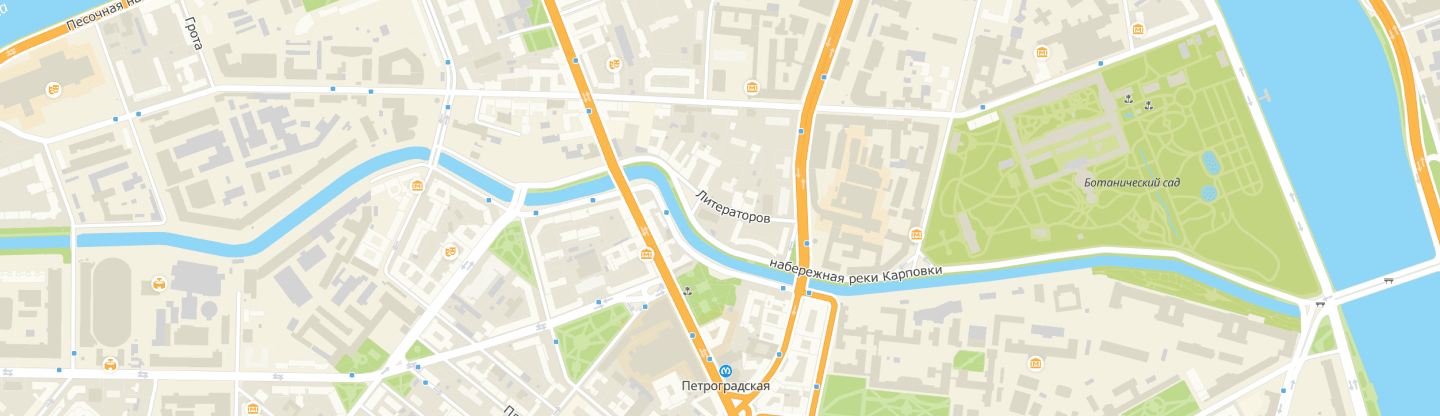
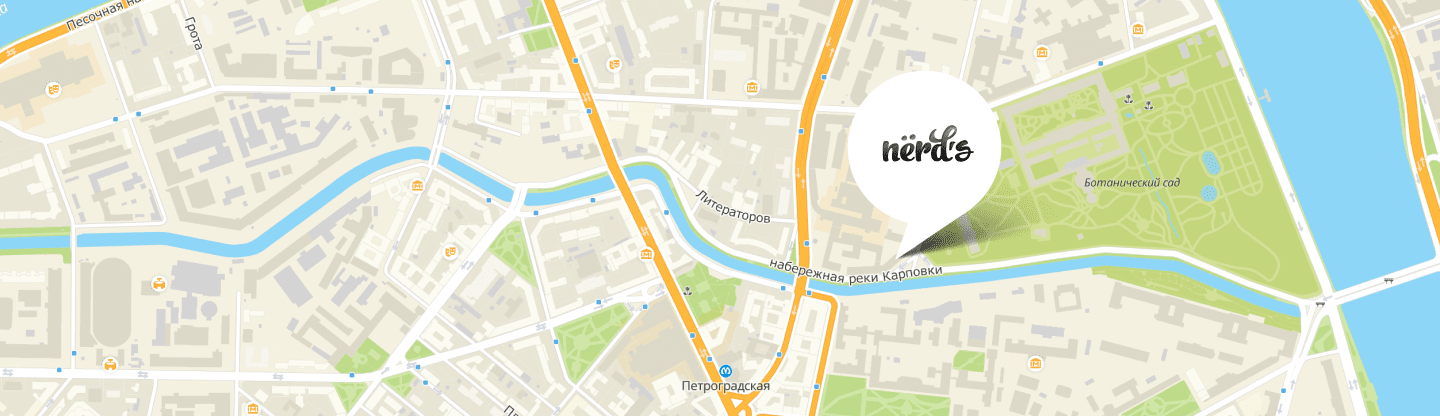
Правки по замечаниям-1
1. карта
2. альты в каталоге
3. описание ползунков
4. убрала подчеркивание корзины в меню
5. выправила шрифты, размеры, высоту строк
6. поправила главную навигацию на переполнение

Changed region(s): [[0.5625, 0.1562, 0.7188, 0.625]]

diff --git a/index.html b/index.html
@@ -18,7 +18,7 @@
 
     <nav class="main-navigation center">
       <a class="main-header-logo">
-        <img src="img/svg/nerds-logo.svg" width="160" height="66" alt="логотип Нёрдс черного цвета">
+        <img src="img/svg/nerds-logo.svg" width="160" height="66" alt="Логотип Нёрдс черного цвета.">
       </a>
       <ul class="site-navigation">
         <li><a href="index.html">Студия</a></li>
@@ -63,19 +63,19 @@
       <h2 class="visually-hidden">Услуги</h2>
       <ul class="services-list">
         <li class="services-item">
-          <img src="img/png/illustration-1.png" width="300" height="146" alt="На красном фоне изображен ноутбук с открытым в браузере сайтом на экране">
+          <img src="img/png/illustration-1.png" width="300" height="146" alt="На красном фоне изображен ноутбук с открытым в браузере сайтом на экране.">
           <h3>Веб-сайты</h3>
           <p>Мир никогда не будет прежним<br>после того как увидит ваш сайт!</p>
           <a class="button" href="blank.html">Заказать</a>
         </li>
         <li class="services-item">
-          <img src="img/png/illustration-2.png" width="300" height="146" alt="На зеленом фоне изображены два смартфона, на которых открыты какие-то приложения">
+          <img src="img/png/illustration-2.png" width="300" height="146" alt="На зеленом фоне изображены два смартфона, на которых открыты какие-то приложения.">
           <h3>Приложения</h3>
           <p>Покорите топ-10 приложений<br>в AppStore и Google Play</p>
           <a class="button button-green" href="blank.html">Заказать</a>
         </li>
         <li class="services-item">
-          <img src="img/png/illustration-3.png" width="300" height="146" alt="На желтом фоне изображен монитор на трех ножках, на экране которого видны различные диаграммы">
+          <img src="img/png/illustration-3.png" width="300" height="146" alt="На желтом фоне изображен монитор на трех ножках, на экране которого видны различные диаграммы.">
           <h3>Презентации</h3>
           <p>Вы даже не подозреваете,<br>насколько вы изумительны!</p>
           <a class="button button-yellow" href="blank.html">Заказать</a>
@@ -98,7 +98,7 @@
       </div>
       <div class="about-us-statistics">
         <h3 class="visually-hidden">Наша статистика</h3>
-        <img src="img/jpg/nerds-illustration.jpg" width="360" height="208" alt="Черный логотип Нёрдс на фоне красных, синих, зеленых и желтых фигур — кругов, прямых и изогнутых линий">
+        <img src="img/jpg/nerds-illustration.jpg" width="360" height="208" alt="Черный логотип Нёрдс на фоне красных, синих, зеленых и желтых фигур — кругов, прямых и изогнутых линий.">
         <table class="about-us-table">
           <caption>с 2004 года Любим точность во всем:</caption>
           <tr>
@@ -120,22 +120,22 @@
       <ul class="partners-list">
         <li class="partners-list-item logo-htmlacademy">
           <a href="https://htmlacademy.ru/intensive/htmlcss" target="_blank">
-            <img src="img/svg/logo-htmlacademy.svg" width="199" height="58" alt="логотип Html Academy">
+            <img src="img/svg/logo-htmlacademy.svg" width="199" height="58" alt="Логотип Html Academy.">
           </a>
         </li>
         <li class="partners-list-item logo-borodinski">
           <a href="blank.html">
-            <img src="img/png/logo-borodinski.png" width="209" height="90" alt="логотип барбершопа Бородинский">
+            <img src="img/png/logo-borodinski.png" width="209" height="90" alt="Логотип барбершопа Borodinski.">
           </a>
         </li>
         <li class="partners-list-item logo-pink">
           <a href="blank.html">
-            <img src="img/png/logo-pink.png" width="185" height="52" alt="Логотип Pink App, продуктового лендинга приложений для iOS и Android">
+            <img src="img/png/logo-pink.png" width="185" height="52" alt="Логотип Pink App, продуктового лендинга приложений для iOS и Android.">
           </a>
         </li>
         <li class="partners-list-item logo-mishka">
           <a href="blank.html">
-            <img src="img/png/logo-mishka.png" width="173" height="84" alt="Логотип интернет-магазина игрушек Mishka">
+            <img src="img/png/logo-mishka.png" width="173" height="84" alt="Логотип интернет-магазина игрушек Mishka.">
           </a>
         </li>
       </ul>
@@ -147,7 +147,6 @@
     <section class="contacts">
       <h2 class="visually-hidden">Контакты</h2>
       <iframe src="https://www.google.com/maps/embed?pb=!1m18!1m12!1m3!1d1019.3873247704647!2d30.316337186695847!3d59.96835380951703!2m3!1f0!2f0!3f0!3m2!1i1024!2i768!4f13.1!3m3!1m2!1s0x4696315bc48a26c9%3A0x8a49e1486716f5b1!2z0L3QsNCxLiBQ0LXQutC4INCa0LDRgNC_0L7QstC60LgsIDXQnywg0KHQsNC90LrRgi3Qn9C10YLQtdGA0LHRg9GA0LMsIDE5NzAyMg!5e0!3m2!1sru!2sru!4v1626047860534!5m2!1sru!2sru" height="416" style="border:0;" allowfullscreen="" loading="lazy"></iframe>
-      <img src="img/png/map.png" alt="Карта с отмеченным местонахождением дизайн-студии Нёрдс" width="1440" height="416">
       <div class="center">
         <div class="contacts-info">
           <p class="contacts-title">NЁRDS DESIGN STUDIO</p>

diff --git a/catalog.html b/catalog.html
@@ -27,7 +27,7 @@
         <li><a href="blank.html">Контакты</a></li>
       </ul>
       <ul class="user-navigation">
-        <li class="navigation-current"><a class="cart-icon" href="blank.html">Корзина</a></li>
+        <li><a class="cart-icon" href="blank.html">Корзина</a></li>
       </ul>
     </nav>
 
@@ -49,8 +49,8 @@
               <div class="scale">
                 <div class="bar" style="width: 62%; margin-left: 7%"></div>
               </div>
-              <div class="toggle toggle-min" tabindex="0" style="left: 7%"></div>
-              <div class="toggle toggle-max" tabindex="0" style="left: 62%"></div>
+              <div class="toggle toggle-min" tabindex="0" style="left: 7%"><span class="visually-hidden">Левый ползунок</span></div>
+              <div class="toggle toggle-max" tabindex="0" style="left: 62%"><span class="visually-hidden">Правый ползунок</span></div>
             </div>
             <div class="price-controls">
               <label class="min-price">От
@@ -135,7 +135,7 @@
       <ul class="templates-list">
         <li>
           <a class="templates-item" href="blank.html">
-            <img src="img/catalog/img-sedona.jpg" alt="" width="358" height="578">
+            <img src="img/catalog/img-sedona.jpg" alt="Скриншот сайта Sedona." width="358" height="578">
             <div class="templates-item-description">
               <h3>Sedona</h3>
               <p>Информационный сайт<br>для туристов</p>
@@ -145,7 +145,7 @@
         </li>
         <li>
           <a class="templates-item" href="blank.html">
-            <img src="img/catalog/img-pink.jpg" alt="" width="358" height="578">
+            <img src="img/catalog/img-pink.jpg" alt="Скриншот сайта Pink App." width="358" height="578">
             <div class="templates-item-description">
               <h3>Pink App</h3>
               <p class="templates-item-text">Продуктовый лендинг<br>приложения для iOS и Android</p>
@@ -155,7 +155,7 @@
         </li>
         <li>
           <a class="templates-item" href="blank.html">
-            <img src="img/catalog/img-barbershop.jpg" alt="" width="358" height="578">
+            <img src="img/catalog/img-barbershop.jpg" alt="Скриншот сайта барбершопа Borodinski." width="358" height="578">
             <div class="templates-item-description">
               <h3>Barbershop</h3>
               <p class="templates-item-text">Сайт салона красоты.<br>Для мужчин, да.</p>
@@ -165,7 +165,7 @@
         </li>
         <li>
           <a class="templates-item" href="blank.html">
-            <img src="img/catalog/img-mishka.jpg" alt="" width="358" height="578">
+            <img src="img/catalog/img-mishka.jpg" alt="Скриншот сайта интернет-магазина Mishka." width="358" height="578">
             <div class="templates-item-description">
               <h3>Mishka</h3>
               <p class="templates-item-text">Интернет-магазин<br>вязаных игрушек</p>
@@ -175,7 +175,7 @@
         </li>
         <li>
           <a class="templates-item" href="blank.html">
-            <img src="img/catalog/img-aplus.jpg" alt="" width="358" height="578">
+            <img src="img/catalog/img-aplus.jpg" alt="Скриншот сайта A Plus." width="358" height="578">
             <div class="templates-item-description">
               <h3>A Plus</h3>
               <p class="templates-item-text">Лендинг курсов повышения<br>квалификации</p>
@@ -185,7 +185,7 @@
         </li>
         <li>
           <a class="templates-item" href="blank.html">
-            <img src="img/catalog/img-kvast.jpg" alt="" width="358" height="578">
+            <img src="img/catalog/img-kvast.jpg" alt="Скриншот промо-сайта Кваста." width="358" height="578">
             <div class="templates-item-description">
               <h3>Кваст</h3>
               <p class="templates-item-text">Промо-сайт производителя<br>крафтового кваса</p>

diff --git a/css/style.css b/css/style.css
@@ -49,7 +49,7 @@ body {
   min-width: 1160px;
   margin: 0;
   padding: 0;
-  font-family: "Roboto", "Arial", "Helvetica Neue", "Nimbus Sans", "Ubuntu", sans-serif;
+  font-family: "Roboto", "Arial", "Helvetica CY", "Nimbus Sans L", sans-serif;
   font-weight: 400;
   font-size: 16px;
   line-height: 24px;
@@ -140,7 +140,7 @@ img {
 .main-navigation {
   display: grid;
   grid-template-columns: 160px 1fr 160px;
-  height: 70px;
+  min-height: 70px;
   margin-top: 48px;
 }
 
@@ -148,12 +148,16 @@ img {
 .user-navigation {
   margin: 0;
   padding: 0;
+  padding-top: 27px;
+  padding-bottom: 13px;
   list-style: none;
 }
 
 .site-navigation {
   display: flex;
+  flex-wrap: wrap;
   min-width: 437px;
+  padding-top: 25px;
   margin-left: auto;
   margin-right: auto;
   justify-content: space-between;
@@ -172,8 +176,6 @@ img {
   text-transform: uppercase;
 
   display: block;
-  padding-top: 27px;
-  padding-bottom: 13px;
 }
 
 .site-navigation a {
@@ -227,7 +229,7 @@ img {
 .cart-icon::before {
   content: "";
   position: absolute;
-  bottom: 20px;
+  bottom: 8px;
   left: 0px;
 
   width: 15px;
@@ -246,6 +248,7 @@ img {
 
 .slider {
   position: relative;
+  min-height: 424px;
 }
 
 .slider-list {
@@ -262,9 +265,17 @@ img {
   display: block;
 }
 
+.slider-item {
+  box-sizing: border-box;
+  width: 1157px;
+
+  padding-top: 72px;
+  padding-bottom: 80px;
+}
+
 .slider .slider-item {
   background-repeat: no-repeat;
-  background-position: 100%;
+  background-position: 100% 87%;
 }
 
 .slider .slider-item:nth-child(1) {
@@ -277,15 +288,6 @@ img {
 
 .slider .slider-item:nth-child(3) {
   background-image: url("../img/png/slide3.png");
-}
-
-.slider-item {
-  box-sizing: border-box;
-  width: 1157px;
-  min-height: 427px;
-
-  padding-top: 74px;
-  padding-bottom: 80px;
 }
 
 .slider-item h3 {
@@ -302,8 +304,8 @@ img {
 .slider-item p {
   color: var(--grey-extra-dark);
   width: 416px;
-  line-height: 25px;
-  margin-bottom: 38px;
+  line-height: 24px;
+  margin-bottom: 39px;
 }
 
 .slider-item a {
@@ -450,7 +452,7 @@ img {
 .about-us-title {
   font-weight: 500;
   font-size: 45px;
-  line-height: 46px;
+  line-height: 45px;
   color: var(--basic-black);
   padding: 0;
   margin-top: 34px;
@@ -1020,8 +1022,7 @@ img {
   box-sizing: border-box;
   width: 100%;
   min-height: 231px;
-  max-height: 578px;
-  padding: 26px 10px 44px;
+  padding: 26px 60px 44px;
   text-align: center;
   background-color: var(--basic-grey);
 }
@@ -1109,29 +1110,23 @@ img {
   position: relative;
 
   height: 416px;
-  overflow: hidden;
-  background-color: var(--map-background);
-
   margin-bottom: 38px;
+  background-color: var(--map-background);
+  background-image: url(../img/png/map.png);
+  background-repeat: no-repeat;
+  background-position: center;
+  background-size: cover;
+  overflow: hidden;
 }
 
 .contacts iframe {
   position: relative;
-  z-index: 2;
+  z-index: 4;
 
   width: 100%;
   height: 416px;
 
   border: none;
-}
-
-.contacts img {
-  position: absolute;
-  top: 0;
-  z-index: 1;
-
-  margin: 0 auto;
-  height: 416px;
 }
 
 .contacts-info {
@@ -1331,7 +1326,7 @@ img {
 
 .modal-form label {
   font-weight: 700;
-  line-height: 24px;
+  line-height: 18px;
 }
 
 .modal-form input,

diff --git a/blank.html b/blank.html
@@ -24,11 +24,11 @@
       <ul class="site-navigation">
         <li><a href="index.html">Студия</a></li>
         <li><a href="blank.html">Клиенты</a></li>
-        <li class="navigation-current"><a href="catalog.html">Магазин</a></li>
+        <li><a href="catalog.html">Магазин</a></li>
         <li><a href="blank.html">Контакты</a></li>
       </ul>
       <ul class="user-navigation">
-        <li class="navigation-current"><a class="cart-icon" href="blank.html">Корзина</a></li>
+        <li><a class="cart-icon" href="blank.html">Корзина</a></li>
       </ul>
     </nav>
 
